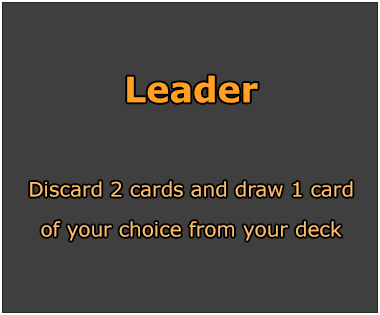
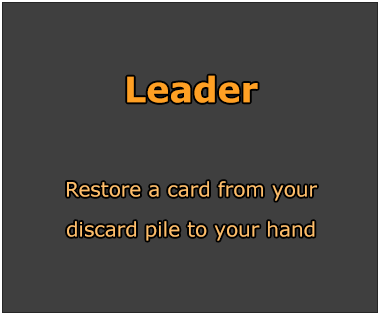
Rules: The Witcher 3's leaders and round flow where the QA audit found gaps
An audit of the rules against The Witcher 3's own Gwent code (and the
Witcher wiki's card pages) found:

- The Eredin leaders had each other's abilities. As in The Witcher 3:
  Commander of the Red Riders doubles the close combat row, Bringer of
  Death restores a card from the discard pile to the hand, Destroyer of
  Worlds discards 2 cards to draw 1 of your choice, King of the Wild Hunt
  plays any weather card from the deck. Their ability texts follow; the
  three Monsters AI decks keep their ability with the leader that now
  carries it.
- A side that starts a round with no card in hand sits the round out, even
  with its leader unused (The Witcher 3 only makes a side with cards
  active at a round's start).
- A side with an empty hand passes automatically when its leader could do
  nothing right now (the AI reads its opponent the same way).
- Francesca, Hope of the Aen Seidhe moves an agile unit when its own
  strength would be higher on the other row, ranged row first, not when
  the side's total would be (they differ around a morale booster).
- A Cow discarded with Destroyer of Worlds summons its Bovine Defense
  Force like any Cow going to the discard pile.

Changed region(s): [[0.0868, 0.6857, 0.8974, 0.7714], [0.0579, 0.5714, 0.9553, 0.6571]]

diff --git a/GwentCardGame/Assets/Scripts/Rules/AbilityRules.cs b/GwentCardGame/Assets/Scripts/Rules/AbilityRules.cs
@@ -166,46 +166,48 @@ namespace Gwent.Rules
         }
 
         //----------------------------------------Agile----------------------------------------//
-        // Francesca, Hope of the Aen Seidhe: move each agile unit to the row where it adds the most.
-        // Units already in their best row (ties included) stay where they are.
+        // Francesca, Hope of the Aen Seidhe, as The Witcher 3 does it: each non-hero agile unit, the ranged row's
+        // first, moves to the other row when its own strength would be higher there (not the side's total: a morale
+        // booster moving away helps the others, not itself). Returns how many moved.
         public static int OptimizeAgile(PlayerState info, IList<int> weather, bool double_spies, CardDatabase db)
         {
-            int moves = 0;
-            for (int pass = 0; pass < 3; pass++)
-            {
-                bool changed = false;
-                foreach (string from in new[] { Rows.Close, Rows.Range })
+            // Listed first, then moved one by one, each judged on the board as it is by then
+            List<KeyValuePair<string, int>> units = new List<KeyValuePair<string, int>>();
+            foreach (string row in new[] { Rows.Range, Rows.Close })
+                foreach (int card_id in info.UnitRow(row))
                 {
-                    string to = from == Rows.Close ? Rows.Range : Rows.Close;
-                    List<int> snapshot = new List<int>(info.UnitRow(from));
-                    foreach (int card_id in snapshot)
-                    {
-                        Card card = db.Get(card_id);
-                        if (card.row != Rows.Agile || card.unique || !info.UnitRow(from).Contains(card_id))
-                            continue;
-
-                        StrengthCalculator.Recalculate(info, weather, double_spies, db);
-                        int before = info.TotalScore();
-                        info.UnitRow(from).Remove(card_id);
-                        info.UnitRow(to).Add(card_id);
-                        StrengthCalculator.Recalculate(info, weather, double_spies, db);
-                        if (info.TotalScore() > before)
-                        {
-                            changed = true;
-                            moves++;
-                        }
-                        else
-                        {
-                            info.UnitRow(to).Remove(card_id);
-                            info.UnitRow(from).Add(card_id);
-                        }
-                    }
+                    Card card = db.Get(card_id);
+                    if (card.row == Rows.Agile && !card.unique)
+                        units.Add(new KeyValuePair<string, int>(row, card_id));
                 }
-                if (!changed)
-                    break;
+
+            int moves = 0;
+            foreach (KeyValuePair<string, int> unit in units)
+            {
+                string from = unit.Key, to = from == Rows.Close ? Rows.Range : Rows.Close;
+                StrengthCalculator.Recalculate(info, weather, double_spies, db);
+                int before = StrengthOf(info, from, unit.Value);
+                info.UnitRow(from).Remove(unit.Value);
+                info.UnitRow(to).Add(unit.Value);
+                StrengthCalculator.Recalculate(info, weather, double_spies, db);
+                if (StrengthOf(info, to, unit.Value) > before)
+                    moves++;
+                else
+                {
+                    info.UnitRow(to).RemoveAt(info.UnitRow(to).Count - 1);
+                    info.UnitRow(from).Add(unit.Value);
+                }
             }
             StrengthCalculator.Recalculate(info, weather, double_spies, db);
             return moves;
+        }
+
+        // A unit's strength on a row (copies of a card on the same row are equally strong)
+        private static int StrengthOf(PlayerState info, string row, int card_id)
+        {
+            int index = info.UnitRow(row).LastIndexOf(card_id);
+            List<int> strengths = info.ModifiedStrengths(row);
+            return index >= 0 && index < strengths.Count ? strengths[index] : 0;
         }
 
         // Row that gives the side the higher total when an agile unit is added

diff --git a/GwentCardGame/Assets/Tests/EditMode/AbilityRulesTests.cs b/GwentCardGame/Assets/Tests/EditMode/AbilityRulesTests.cs
@@ -22,6 +22,9 @@ namespace Gwent.Rules.Tests
         private const int Nekker = 94;
         private const int Arachas = 1, ArachasBehemoth = 2;
         private const int Darkness = 66;           // Gaunter O'Dimm: Darkness, range 4 muster
+        private const int Olgierd = 95;             // N agile 6 morale boost
+        private const int DolBlathannaArcher = 25, VrihheddRecruit = 137, Toruviel = 122; // SC range 4, 4, 2
+        private const int MahakamanDefender = 87;   // SC close 5
 
         private CardDatabase Db { get { return TestBoard.Db; } }
 
@@ -88,6 +91,33 @@ namespace Gwent.Rules.Tests
             p.CloseList.Add(BarclayEls);
             Assert.AreEqual(0, AbilityRules.OptimizeAgile(p, new List<int>(), false, Db));
             CollectionAssert.AreEqual(new[] { BarclayEls }, p.CloseList);
+        }
+
+        // The Witcher 3 moves a unit when its own strength rises, not the side's total: Olgierd (agile, morale boost)
+        // gains nothing by joining three range units (they gain 3), so he stays, and the leader can't be used
+        [Test]
+        public void OptimizeAgileJudgesEachUnitByItsOwnStrength()
+        {
+            PlayerState p = TestBoard.Player(Factions.Scoiatael, LeaderIds.FrancescaHopeOfTheAenSeidhe);
+            p.CloseList.Add(Olgierd);
+            p.RangeList.AddRange(new[] { DolBlathannaArcher, VrihheddRecruit, Toruviel });
+            Board board = NewBoard(p, TestBoard.Player());
+            Assert.IsNotNull(LeaderRules.Unavailable(board, LeaderIds.FrancescaHopeOfTheAenSeidhe, true), "no unit of its own would gain");
+            Assert.AreEqual(0, AbilityRules.OptimizeAgile(p, new List<int>(), false, Db));
+            CollectionAssert.AreEqual(new[] { Olgierd }, p.CloseList);
+        }
+
+        // ... and leaves a frozen close row for his own sake (1 -> 6) even though the six units he boosted lose 6
+        [Test]
+        public void OptimizeAgileMovesAUnitThatGainsEvenIfTheSideLoses()
+        {
+            PlayerState p = TestBoard.Player(Factions.Scoiatael, LeaderIds.FrancescaHopeOfTheAenSeidhe);
+            p.CloseList.Add(Olgierd);
+            for (int i = 0; i < 6; i++)
+                p.CloseList.Add(MahakamanDefender);
+            List<int> weather = new List<int> { CardIds.BitingFrost };
+            Assert.AreEqual(1, AbilityRules.OptimizeAgile(p, weather, false, Db));
+            CollectionAssert.AreEqual(new[] { Olgierd }, p.RangeList);
         }
 
         //----------------------------------------Muster (B10)----------------------------------------//
@@ -290,7 +320,7 @@ namespace Gwent.Rules.Tests
             Assert.IsNull(LeaderRules.Unavailable(board, LeaderIds.FoltestLordCommander, true));
 
             Assert.IsNotNull(LeaderRules.Unavailable(board, LeaderIds.EmhyrEmperorOfNilfgaard, true), "empty opponent hand");
-            Assert.IsNotNull(LeaderRules.Unavailable(board, LeaderIds.EredinBringerOfDeath, true), "nothing to discard");
+            Assert.IsNotNull(LeaderRules.Unavailable(board, LeaderIds.EredinDestroyerOfWorlds, true), "nothing to discard");
             Assert.IsNotNull(LeaderRules.Unavailable(board, LeaderIds.FrancescaHopeOfTheAenSeidhe, true), "no agile unit");
         }
 
@@ -306,7 +336,7 @@ namespace Gwent.Rules.Tests
         [Test]
         public void PickAnyWeatherIncludesClearWeather()
         {
-            PlayerState p = TestBoard.Player(Factions.Monsters, LeaderIds.EredinCommanderOfTheRedRiders);
+            PlayerState p = TestBoard.Player(Factions.Monsters, LeaderIds.EredinKingOfTheWildHunt);
             p.DeckList.AddRange(new[] { CardIds.ClearWeather, Fiend, CardIds.TorrentialRain, CardIds.TorrentialRain });
             CollectionAssert.AreEquivalent(new[] { CardIds.ClearWeather, CardIds.TorrentialRain }, LeaderRules.WeatherCardsFor(p, "all", Db));
             CollectionAssert.AreEqual(new[] { CardIds.TorrentialRain }, LeaderRules.WeatherCardsFor(p, Rows.Siege, Db));

diff --git a/GwentCardGame/Assets/Scripts/Rules/CardModel.cs b/GwentCardGame/Assets/Scripts/Rules/CardModel.cs
@@ -166,10 +166,10 @@ namespace Gwent.Rules
         public const int EmhyrTheRelentless = 36;           // Draw a card from the opponent's discard pile
         public const int EmhyrTheWhiteFlame = 37;           // Passive: cancel the opponent's leader ability
         public const int EredinTheTreacherous = 40;         // Passive: spies are doubled (both players)
-        public const int EredinBringerOfDeath = 41;         // Discard 2 cards, draw 1 of your choice from your deck
-        public const int EredinCommanderOfTheRedRiders = 42; // Play any weather card from your deck (Clear Weather too)
-        public const int EredinDestroyerOfWorlds = 43;      // Restore a card from your discard pile to your hand
-        public const int EredinKingOfTheWildHunt = 44;      // Commander's Horn on your close row
+        public const int EredinBringerOfDeath = 41;         // Restore a card from your discard pile to your hand
+        public const int EredinCommanderOfTheRedRiders = 42; // Commander's Horn on your close row
+        public const int EredinDestroyerOfWorlds = 43;      // Discard 2 cards, draw 1 of your choice from your deck
+        public const int EredinKingOfTheWildHunt = 44;      // Play any weather card from your deck (Clear Weather too)
         public const int FoltestKingOfTemeria = 51;         // Play an Impenetrable Fog from your deck
         public const int FoltestLordCommander = 52;         // Clear all weather
         public const int FoltestSonOfMedell = 53;           // Scorch the enemy range row (if it totals 10+)
@@ -206,7 +206,7 @@ namespace Gwent.Rules
         {
             switch (leader_id)
             {
-                case EredinCommanderOfTheRedRiders: return "all";
+                case EredinKingOfTheWildHunt: return "all";
                 case EmhyrHisImperialMajesty: return Rows.Siege;
                 case FoltestKingOfTemeria: return Rows.Range;
                 case FrancescaPurebloodElf: return Rows.Close;
@@ -219,7 +219,7 @@ namespace Gwent.Rules
         {
             switch (leader_id)
             {
-                case EredinKingOfTheWildHunt: return Rows.Close;
+                case EredinCommanderOfTheRedRiders: return Rows.Close;
                 case FoltestTheSiegemaster: return Rows.Siege;
                 case FrancescaTheBeautiful: return Rows.Range;
                 default: return null;

diff --git a/GwentCardGame/Assets/Scripts/SceneController.Leaders.cs b/GwentCardGame/Assets/Scripts/SceneController.Leaders.cs
@@ -83,7 +83,7 @@ public partial class SceneController
             pendingAction = PendingAction.None;
     }
 
-    // Discard (Eredin, Bringer of Death: discard 2 then pick 1 from the deck)
+    // Discard (Eredin, Destroyer of Worlds: discard 2 then pick 1 from the deck)
     public void DiscardCard(int card_id, bool is_player_card)
     {
         MainInfo info = Info(is_player_card);
@@ -91,7 +91,7 @@ public partial class SceneController
             return;
 
         GameAudio.PlaySfx("card_discard");
-        info.DiscardList.Add(card_id);
+        AbilityRules.Discard(info, card_id); // a discarded Cow still calls the Bovine Defense Force (The Witcher 3)
         SetHandObject(info.HandList, is_player_card);
         SetDiscardObject(info.DiscardList, is_player_card);
     }
@@ -282,7 +282,7 @@ public partial class SceneController
 
         switch (leader_id)
         {
-            case LeaderIds.EredinBringerOfDeath:
+            case LeaderIds.EredinDestroyerOfWorlds:
                 if (!is_player_turn)
                 {
                     reason = "The AI does not use this ability";
@@ -293,7 +293,7 @@ public partial class SceneController
                 pendingAction = PendingAction.DiscardCards;
                 UIOverlay.Toast((GameInput.IsTouch ? "Double-tap" : "Double-click") + " 2 cards to discard them", 4f);
                 return LeaderOutcome.Pending;
-            case LeaderIds.EredinDestroyerOfWorlds:
+            case LeaderIds.EredinBringerOfDeath:
                 return RestoreToHand("discard_list", info.DiscardList, is_player_turn, out reason);
             case LeaderIds.EmhyrTheRelentless:
                 return RestoreToHand("opp_discard_list", Opponent(is_player_turn).DiscardList, is_player_turn, out reason);

diff --git a/GwentCardGame/Assets/Scripts/Rules/AiBrain.cs b/GwentCardGame/Assets/Scripts/Rules/AiBrain.cs
@@ -75,8 +75,9 @@ namespace Gwent.Rules
                 return AiAction.Pass();
 
             int advantage = ctx.Me.TotalScore() - ctx.Opponent.TotalScore();
-            // Done: passed, or nothing left to play (an empty hand with a leader to use is not done)
-            bool opponent_done = ctx.Opponent.hasPassed || RoundRules.OutOfPlays(ctx.Opponent, ctx.Db);
+            // Done: passed, or nothing left to play (an empty hand with a leader it can use is not done)
+            Board seen_from_opponent = new Board { Player = ctx.Opponent, Enemy = ctx.Me, Weather = ctx.Weather, DoubleSpies = ctx.DoubleSpies, RandomMedic = ctx.RandomMedic, Db = ctx.Db };
+            bool opponent_done = ctx.Opponent.hasPassed || RoundRules.OutOfPlays(seen_from_opponent, true);
             // Nilfgaard wins a tied round (unless both sides are Nilfgaard)
             int needed = ctx.Me.Faction == Factions.Nilfgaard && ctx.Opponent.Faction != Factions.Nilfgaard ? 0 : 1;
 
@@ -316,7 +317,7 @@ namespace Gwent.Rules
                 gain = Simulate(ctx, (m, o, w) => AbilityRules.ClearWeather(m, o, w));
             else if (leader == LeaderIds.FrancescaHopeOfTheAenSeidhe)
                 gain = Simulate(ctx, (m, o, w) => AbilityRules.OptimizeAgile(m, w, ctx.DoubleSpies, ctx.Db));
-            else if (leader == LeaderIds.EredinDestroyerOfWorlds || leader == LeaderIds.EmhyrTheRelentless)
+            else if (leader == LeaderIds.EredinBringerOfDeath || leader == LeaderIds.EmhyrTheRelentless)
             {
                 // A unit from a discard pile to the hand: worth a card, more for a strong one or a spy
                 List<int> pile = leader == LeaderIds.EmhyrTheRelentless ? ctx.Opponent.DiscardList : me.DiscardList;

diff --git a/GwentCardGame/Assets/Tests/EditMode/MatchSimulationTests.cs b/GwentCardGame/Assets/Tests/EditMode/MatchSimulationTests.cs
@@ -16,7 +16,7 @@ namespace Gwent.Rules.Tests
         {
             Faction = Factions.Monsters,
             Name = "Monsters Slay",
-            Leader = LeaderIds.EredinCommanderOfTheRedRiders,
+            Leader = LeaderIds.EredinKingOfTheWildHunt,
             Cards = new List<int> { 67, 14, 77, 83, 85, 27, 125, 126, 127, 128, 129, 1, 1, 1, 2, 18, 19, 20, 47, 30, 22, 135, 92, 94, 94, 94, 201, 202, 204 }
         };
 
@@ -132,7 +132,7 @@ namespace Gwent.Rules.Tests
                         Assert.IsTrue(me.DeckList.Remove(action.CardId), "weather leader card not in deck: " + context);
                         PlayRules.Resolve(board, Db.Get(action.CardId), Rows.Weather, is_player, false);
                     }
-                    else if (me.Leader == LeaderIds.EredinDestroyerOfWorlds || me.Leader == LeaderIds.EmhyrTheRelentless)
+                    else if (me.Leader == LeaderIds.EredinBringerOfDeath || me.Leader == LeaderIds.EmhyrTheRelentless)
                     {
                         // A unit from a discard pile to the hand (SceneController.RestoreToHand, the AI's choice)
                         List<int> pile = me.Leader == LeaderIds.EmhyrTheRelentless ? board.Side(!is_player).DiscardList : me.DiscardList;

diff --git a/GwentCardGame/Assets/Tests/EditMode/RoundAndDeckRulesTests.cs b/GwentCardGame/Assets/Tests/EditMode/RoundAndDeckRulesTests.cs
@@ -22,6 +22,21 @@ namespace Gwent.Rules.Tests
             Assert.AreEqual(RoundWinner.Draw, RoundRules.DecideRound(0, 0, Factions.NorthernRealms, Factions.Monsters));
         }
 
+        // The Witcher 3 passes a side automatically when its hand is empty and its leader could do nothing right now
+        [Test]
+        public void AnEmptyHandWithALeaderThatWouldDoNothingIsDone()
+        {
+            PlayerState p = TestBoard.Player(Factions.NorthernRealms, LeaderIds.FoltestLordCommander);
+            Board board = new Board { Player = p, Enemy = TestBoard.Player(Factions.Monsters), Db = TestBoard.Db };
+            Assert.IsTrue(RoundRules.OutOfPlays(board, true), "no weather to clear: done");
+            board.Weather.Add(CardIds.BitingFrost);
+            Assert.IsFalse(RoundRules.OutOfPlays(board, true), "weather to clear: the leader is a play");
+            p.canLeader = false;
+            Assert.IsTrue(RoundRules.OutOfPlays(board, true), "leader used: done");
+            p.HandList.Add(Fiend);
+            Assert.IsFalse(RoundRules.OutOfPlays(board, true), "a card in hand: not done");
+        }
+
         [Test]
         public void DrawCostsBothALife()
         {

diff --git a/GwentCardGame/Assets/Scripts/Rules/PlayRules.cs b/GwentCardGame/Assets/Scripts/Rules/PlayRules.cs
@@ -179,9 +179,9 @@ namespace Gwent.Rules
                     return opp.HandList.Count > 0 ? null : "Your opponent has no cards in hand";
                 case LeaderIds.EmhyrTheRelentless:
                     return AbilityRules.MedicCandidates(opp.DiscardList, board.Db).Count > 0 ? null : "No unit in your opponent's discard pile";
-                case LeaderIds.EredinBringerOfDeath: // discard 2, draw 1 of your choice
+                case LeaderIds.EredinDestroyerOfWorlds: // discard 2, draw 1 of your choice
                     return me.HandList.Count >= 2 && me.DeckList.Count > 0 ? null : "You need 2 cards in your hand and 1 in your deck";
-                case LeaderIds.EredinDestroyerOfWorlds: // restore a unit from your discard pile to your hand
+                case LeaderIds.EredinBringerOfDeath: // restore a unit from your discard pile to your hand
                     return AbilityRules.MedicCandidates(me.DiscardList, board.Db).Count > 0 ? null : "No unit in your discard pile to restore";
             }
             return "This leader ability is passive";

diff --git a/GwentCardGame/Assets/Scripts/SceneController.cs b/GwentCardGame/Assets/Scripts/SceneController.cs
@@ -329,6 +329,10 @@ public partial class SceneController : MonoBehaviour
             yield return null;
         roundOpening = true;
         lastTurnWasPlayer = null;
+        // The Witcher 3: a side that starts a round with no card in hand sits it out, even with its leader unused
+        foreach (bool is_player in new[] { true, false })
+            if (Info(is_player).HandList.Count == 0 && !Info(is_player).hasPassed)
+                MarkPassed(is_player);
         StartTurn(player_starts);
     }
 
@@ -454,10 +458,10 @@ public partial class SceneController : MonoBehaviour
         TurnCallBack(is_player_turn);
     }
 
-    // The Witcher 3: a side with no card in hand and no leader ability left passes automatically
+    // The Witcher 3: a side with no card in hand and no leader ability it could use right now passes automatically
     private bool OutOfPlays(bool is_player)
     {
-        return RoundRules.OutOfPlays(Info(is_player), Db);
+        return RoundRules.OutOfPlays(CurrentBoard(), is_player);
     }
 
     private void MarkPassed(bool is_player)

diff --git a/GwentCardGame/Assets/Scripts/Rules/RoundRules.cs b/GwentCardGame/Assets/Scripts/Rules/RoundRules.cs
@@ -14,6 +14,14 @@ namespace Gwent.Rules
             return info.HandList.Count == 0 && (!info.canLeader || info.leaderDisabled || db.Get(info.Leader).row != Rows.LeaderActive);
         }
 
+        // In the battle, an unused leader whose ability would do nothing right now does not keep it going either
+        // (The Witcher 3 checks that the ability can be applied)
+        public static bool OutOfPlays(Board board, bool is_player)
+        {
+            PlayerState info = board.Side(is_player);
+            return OutOfPlays(info, board.Db) || info.HandList.Count == 0 && LeaderRules.Unavailable(board, info.Leader, is_player) != null;
+        }
+
         // Higher total wins. Nilfgaard automatically wins a round that ends in a draw (unless both are Nilfgaard).
         public static RoundWinner DecideRound(int player_total, int enemy_total, string player_faction, string enemy_faction)
         {

diff --git a/GwentCardGame/Assets/Editor/GwentAutoplay.cs b/GwentCardGame/Assets/Editor/GwentAutoplay.cs
@@ -1438,7 +1438,7 @@ public static class GwentAutoplay
             };
             int leader_id = c.PlayerInfo.Leader;
             int targets = LeaderIds.WeatherPickRow(leader_id) != null || LeaderIds.HornRow(leader_id) != null || LeaderIds.ScorchRow(leader_id) != null
-                || leader_id == LeaderIds.FoltestLordCommander || leader_id == LeaderIds.EredinDestroyerOfWorlds || leader_id == LeaderIds.EmhyrTheRelentless ? 1
+                || leader_id == LeaderIds.FoltestLordCommander || leader_id == LeaderIds.EredinBringerOfDeath || leader_id == LeaderIds.EmhyrTheRelentless ? 1
                 : leader_id == LeaderIds.FrancescaHopeOfTheAenSeidhe ? 2 : 0;
             Click(0.4, leader_card);
             At(0.9, () => check(c.LeaderSelected && CardShowcase.IsShown && c.CanUseLeader(true) && c.LeaderTargets.Count == targets,

diff --git a/GwentCardGame/Assets/Scripts/Battle/BoardView.cs b/GwentCardGame/Assets/Scripts/Battle/BoardView.cs
@@ -609,9 +609,9 @@ public class BoardView
                 targets.Add(mine.Rows[row].Unit);
             }
         }
-        else if (leader_id == LeaderIds.EredinDestroyerOfWorlds || leader_id == LeaderIds.EmhyrTheRelentless)
+        else if (leader_id == LeaderIds.EredinBringerOfDeath || leader_id == LeaderIds.EmhyrTheRelentless)
         {
-            GameObject pile = View(leader_id == LeaderIds.EredinDestroyerOfWorlds).DiscardPile.transform.parent.gameObject;
+            GameObject pile = View(leader_id == LeaderIds.EredinBringerOfDeath).DiscardPile.transform.parent.gameObject;
             foreach (Image side in UIKit.Frame(pile.transform, LeaderTargetFrame, UITheme.Current.goldBright, 4, 3).GetComponentsInChildren<Image>())
                 side.gameObject.AddComponent<UIPulse>();
             targets.Add(pile);
